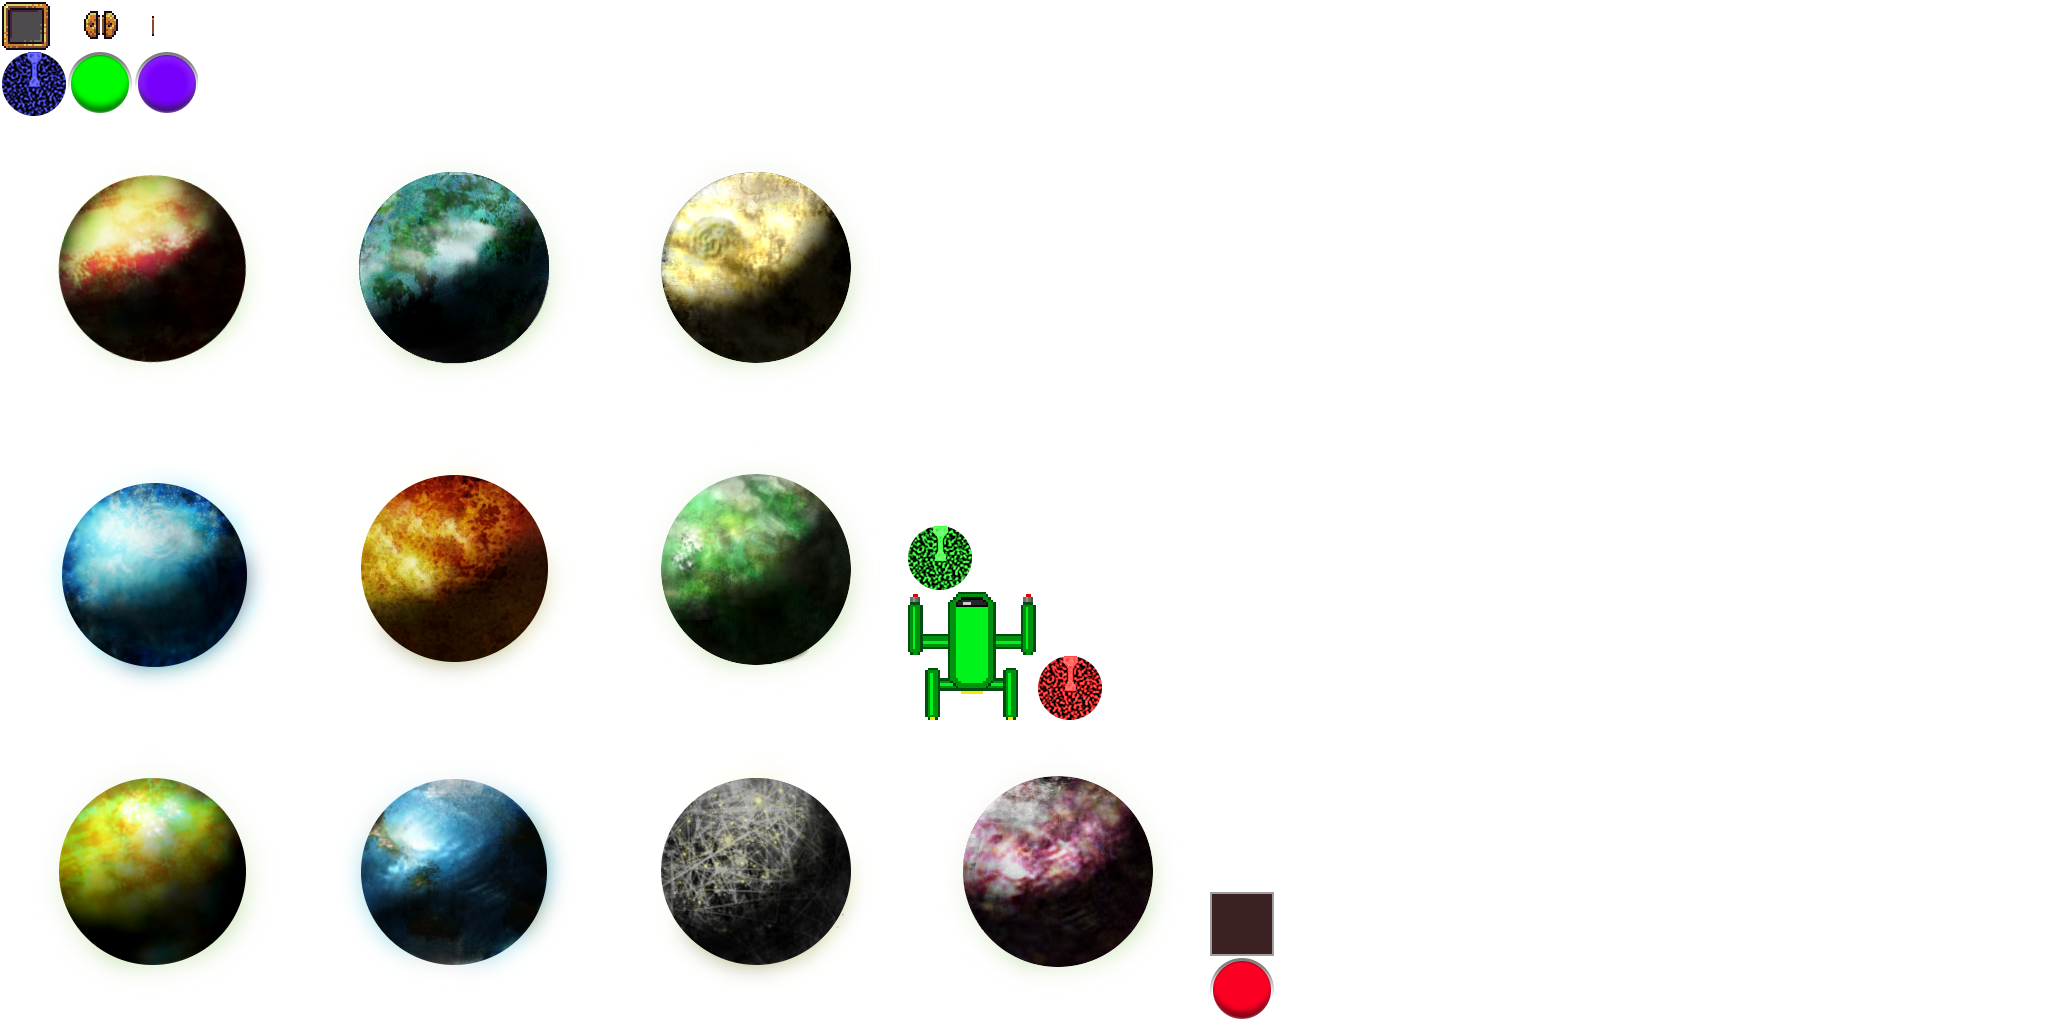
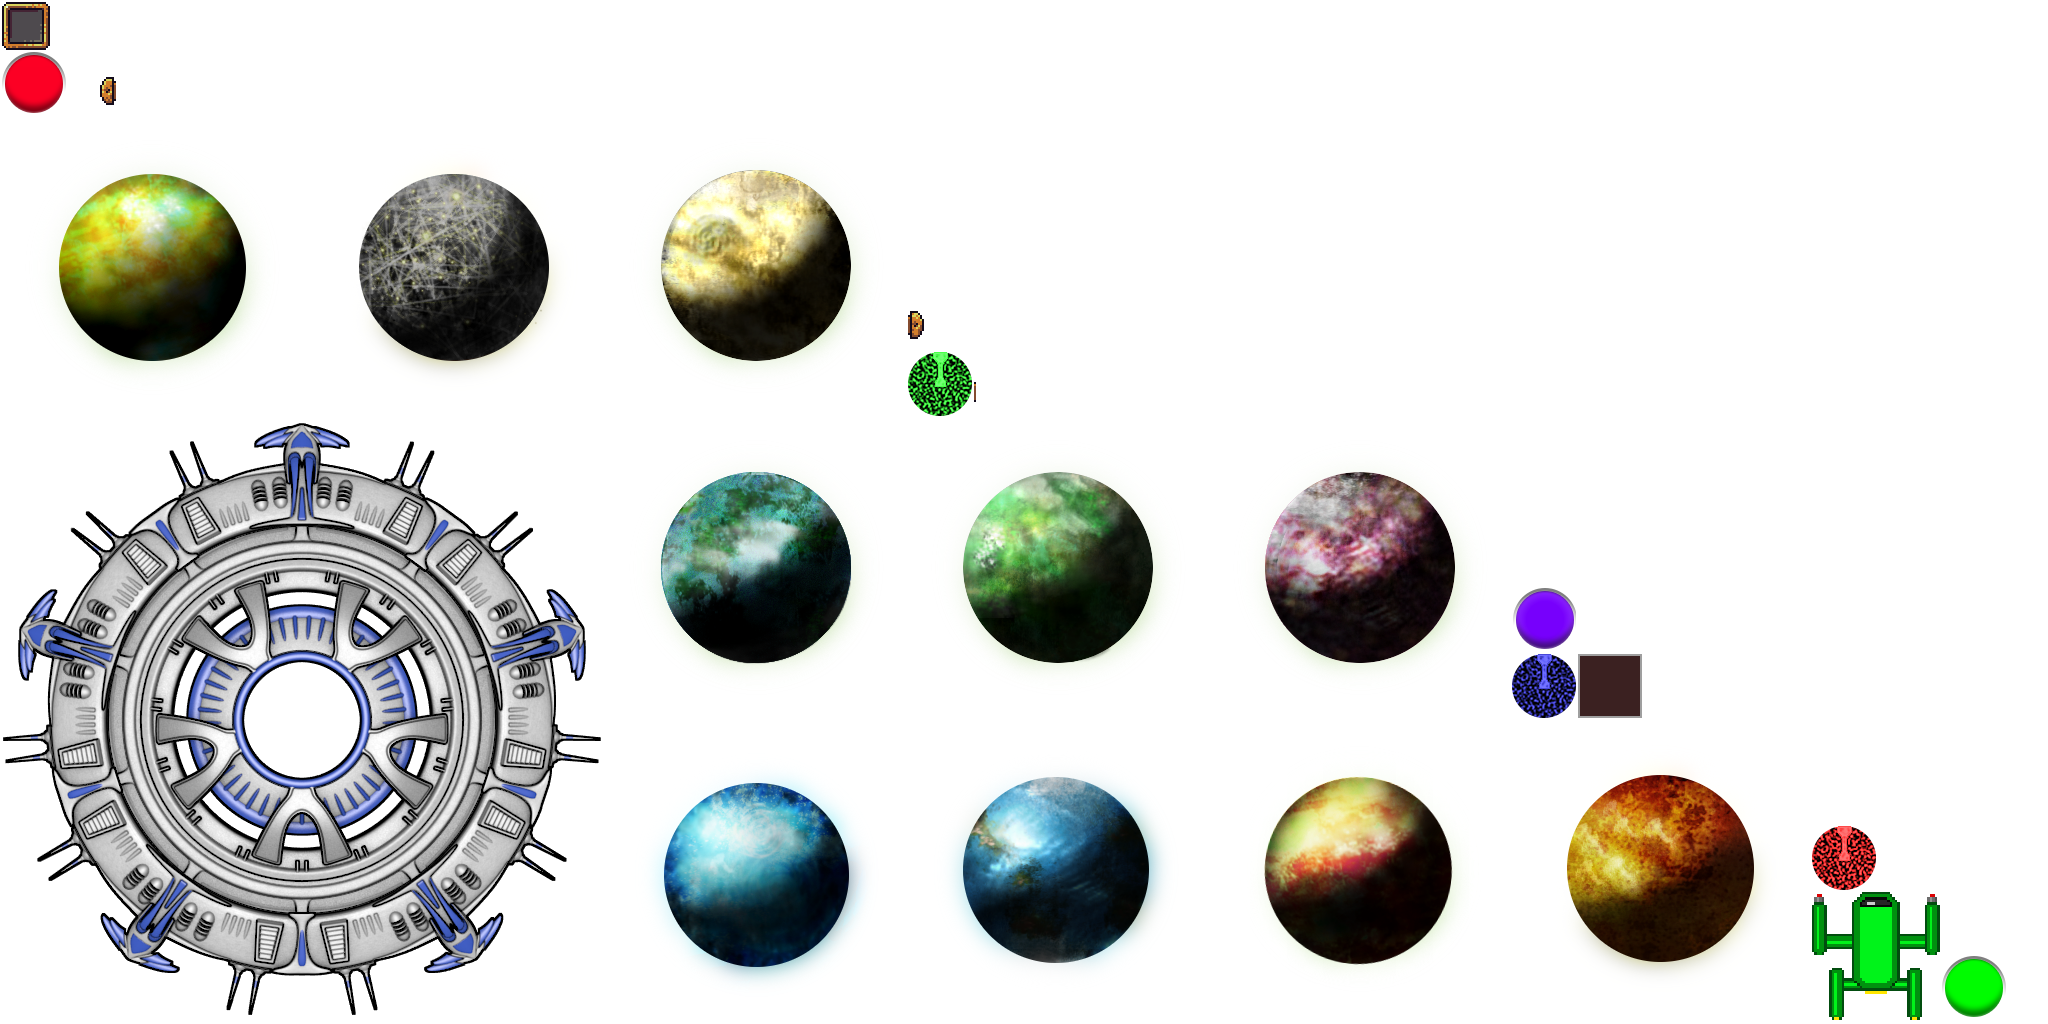
Added outpost

diff --git a/core/src/com/gdxjam/Assets.java b/core/src/com/gdxjam/Assets.java
@@ -8,6 +8,7 @@ import com.badlogic.gdx.graphics.g2d.BitmapFont;
 import com.badlogic.gdx.graphics.g2d.NinePatch;
 import com.badlogic.gdx.graphics.g2d.TextureAtlas;
 import com.badlogic.gdx.graphics.g2d.TextureAtlas.AtlasRegion;
+import com.badlogic.gdx.graphics.g2d.TextureRegion;
 import com.badlogic.gdx.graphics.g2d.freetype.FreeTypeFontGenerator;
 import com.badlogic.gdx.graphics.g2d.freetype.FreeTypeFontGenerator.FreeTypeFontParameter;
 import com.badlogic.gdx.scenes.scene2d.ui.Skin;
@@ -40,6 +41,8 @@ public class Assets implements Disposable, AssetErrorListener {
 	public AssetMinimal minimal;
 	public AssetPlanet planet;
 	public AssetMothership mothership;
+	
+	public static AssetSpacecraft spacecraft;
 
 	public Assets() {
 		manager = new AssetManager();
@@ -59,6 +62,7 @@ public class Assets implements Disposable, AssetErrorListener {
 			minimal = new AssetMinimal(atlas);
 			planet = new AssetPlanet(atlas);
 			mothership = new AssetMothership(atlas);
+			spacecraft = new AssetSpacecraft(atlas);
 		}
 	}
 
@@ -67,6 +71,8 @@ public class Assets implements Disposable, AssetErrorListener {
 		manager.load(SKIN, Skin.class);
 		// manager.load("minimal.pack", TextureAtlas.class);
 		manager.finishLoading();
+		
+		
 	}
 
 	@Override
@@ -97,6 +103,15 @@ public class Assets implements Disposable, AssetErrorListener {
 
 			wall = atlas.createPatch("wall");
 			wallRegion = atlas.findRegion("wall");
+		}
+	}
+	
+	public static class AssetSpacecraft{
+		public final AtlasRegion outpost;
+		//public final AtlasRegion ship;
+		
+		public AssetSpacecraft(TextureAtlas atlas){
+			outpost = atlas.findRegion("outpost");
 		}
 	}
 

diff --git a/core/src/com/gdxjam/utils/EntityFactory.java b/core/src/com/gdxjam/utils/EntityFactory.java
@@ -185,7 +185,7 @@ public class EntityFactory {
 		Body body = engine.getSystem(PhysicsSystem.class).createBody(def);
 
 		CircleShape shape = new CircleShape();
-		float radius = 10;
+		float radius = 12;
 		shape.setRadius(radius);
 		body.createFixture(shape, 1.0f);
 		shape.dispose();
@@ -196,13 +196,40 @@ public class EntityFactory {
 		entity.add(engine.createComponent(HealthComponent.class));
 
 		entity.add(engine.createComponent(SpriteComponent.class).init(
-				Assets.getInstance().minimal.tree, position.x, position.y,
+				Assets.spacecraft.outpost, position.x, position.y,
 				radius * 2, radius * 2));
 
 		engine.addEntity(entity);
 		return entity;
 	}
+	
+	public static Entity createAsteroid(Vector2 position, float radius){
+		Entity entity = engine.createEntity();
+		
+		BodyDef def = new BodyDef();
+		def.type = BodyDef.BodyType.KinematicBody;
+		def.angularVelocity = MathUtils.random(0.0f, 4.0f);
+		def.position.set(position);
+		Body body = engine.getSystem(PhysicsSystem.class).createBody(def);
+		
+		CircleShape shape = new CircleShape();
+		shape.setRadius(radius);
+		body.createFixture(shape, 1.0f);
+		shape.dispose();
+		
+		entity.add(engine.createComponent(
+			SteerableBodyComponent.class).init(body));
+		
+		entity.add(engine.createComponent(HealthComponent.class));
 
+		entity.add(engine.createComponent(SpriteComponent.class).init(
+				Assets.getInstance().minimal.commander, position.x, position.y,
+				radius * 2, radius * 2));
+	
+		engine.addEntity(entity);
+		return entity;
+	}
+	
 
 	public static Entity createUnit(Vector2 position) {
 		Entity entity = engine.createEntity();

diff --git a/core/src/com/gdxjam/utils/generators/WorldGenerator.java b/core/src/com/gdxjam/utils/generators/WorldGenerator.java
@@ -42,6 +42,34 @@ public class WorldGenerator {
           EntityFactory.createTree(new Vector2(c.x,c.y), c.radius, type);
       }
   }
+	
+	public static void generateAsteroidField(Vector2 center, float width, float height, float minRadius, float maxRadius, float density){
+      //PROTOTYPE
+      //Density should be between 0 and 1
+      if(density<0 || density>1) density = 0.5f;
+
+      float amountOfTrees = Math.round(width*height*density/(2*minRadius*2*minRadius));
+      
+      Array<Circle> circles = new Array<Circle>();
+      for(int i = 0; i < amountOfTrees; i++){
+      	float treeRadius = MathUtils.random(minRadius, maxRadius);
+          Circle c = new Circle(center.cpy().add((new Vector2(width,height)).scl((float)Math.random(), (float)Math.random())).sub(width/2f, height/2f), treeRadius);
+          boolean intercept = false;
+          for(Circle cc : circles){
+              if(Intersector.overlaps(c,cc)){
+                  intercept = true;
+                  break;
+              }
+          }
+          if(!intercept){
+              circles.add(c);
+          }
+      }
+      for(Circle c : circles){
+          EntityFactory.createAsteroid(new Vector2(c.x,c.y), c.radius);
+      }
+  }
+	
 		
 }
 	

diff --git a/core/src/com/gdxjam/systems/EntityRenderSystem.java b/core/src/com/gdxjam/systems/EntityRenderSystem.java
@@ -16,7 +16,7 @@ import com.gdxjam.components.SpriteComponent;
 
 public class EntityRenderSystem extends IteratingSystem implements Disposable {
 
-	private static final int spriteRotationOffset = -90;
+	private static final int spriteRotationOffset = -0;
 
 	private SpriteBatch batch;
 	private OrthographicCamera camera;
